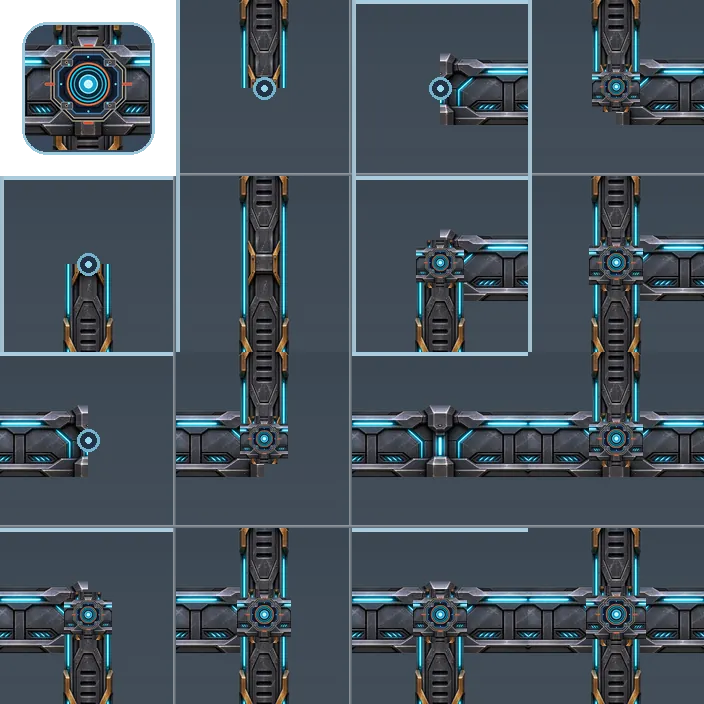
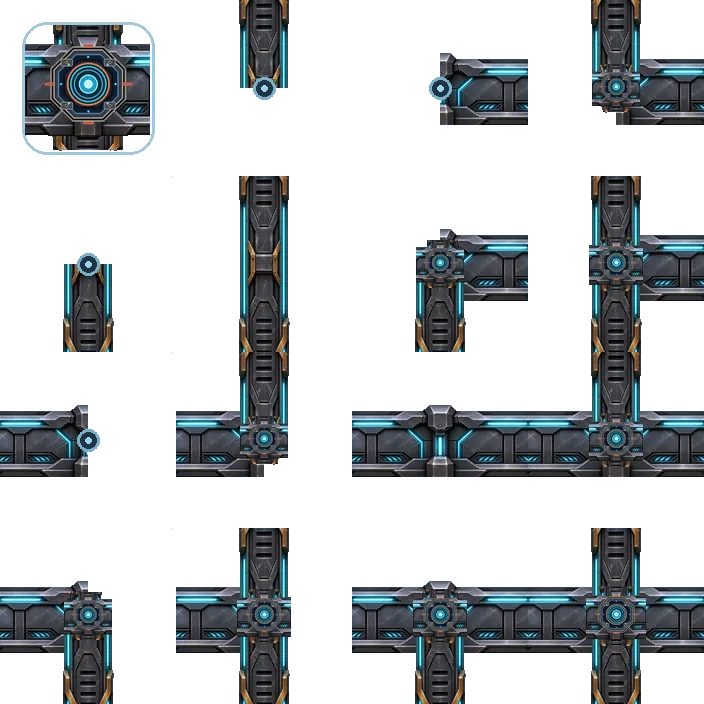
Remove wall backplates and add Fiend status display to Cosmic Odyssey
* Remove artificial dark tile backplates from connected sci-fi wall artwork

* Make desktop sector artwork share space with named Fiend health/status radar

* Wire live Jett, Chip and Kitty HP and defeat status to desktop tactical radar

* Display original environment art and live Fiend tactical status without cluttering maze

* Document transparent wall cleanup, original source provenance and tactical Fiend radar QA

diff --git a/public/cosmic-odyssey/index.html b/public/cosmic-odyssey/index.html
@@ -11,5 +11,13 @@
   <div class="cosmic-stage"><div id="board-frame" class="board-frame"><div id="board" class="board" role="application" aria-label="Cosmic Odyssey maze, swipe to steer Rosie"></div><div id="popups" class="popups"></div><div id="veil" class="veil">
     <div class="mission-card"><div class="mission-crest" id="mission-crest">✦ LEVEL 1 · NEBULA PASSAGE ✦</div><img class="mission-rosie" src="assets/rosie-cruise.webp" alt="Captain Rosie aboard her red white navy and gold rocket"/><h2 id="veil-title">COSMIC ODYSSEY</h2><p id="veil-msg">Collect biscuits to power Rosie's weapons. Jett and Chip patrol the treat lanes; Kitty Xenovese hunts you. Defeat all three Fiends and collect 18 biscuits to unlock the portal.</p><div class="fiend-cameos"><img src="assets/jett.webp" alt="Jett the jetpack raccoon"/><img src="assets/chip.webp" alt="Chip in his emerald UFO"/><img src="assets/kitty.webp" alt="Kitty in her pink ship"/></div><p class="mission-tip">Collect glowing turbo cores to bank up to two speed boosts. Boost with Shift/B or the touch button. Supply crates replenish ammo; repair stations restore hull. Red plasma mines are dangerous. From Stage 4 onward, paired wormholes let Rosie jump across the maze.</p><div class="mission-level-picker"><label for="stage-select">CHOOSE A STAGE TO PLAYTEST</label><select id="stage-select" aria-label="Choose a Cosmic Odyssey stage"></select></div><button id="start" class="launch-button">LAUNCH MISSION</button><div class="control-help">Swipe / hold D-pad to steer · Space: laser (1 treat) · Enter: rocket (2 treats) · Shift/B: boost</div></div>
   </div></div></div>
-  <div class="cosmic-bottom"><div class="status-line"><span id="message">Captain Rosie awaits your command.</span><span id="aim-indicator" class="aim-indicator" aria-live="off">AIM: RIGHT</span><span id="scene-description" class="scene-description">SCENERY: NEBULA PASSAGE</span><span id="level">LEVEL 1 / 10 · NEBULA PASSAGE</span></div><div class="command-bar"><div class="dpad" aria-label="Steering controls"><button data-dir="up" class="d-up" aria-label="Up">▲</button><button data-dir="left" class="d-left" aria-label="Left">◀</button><span class="d-center">✦</span><button data-dir="right" class="d-right" aria-label="Right">▶</button><button data-dir="down" class="d-down" aria-label="Down">▼</button></div><div class="weapons"><button id="laser" class="weapon" aria-label="Fire laser, costs one treat"><img src="assets/laser-button.webp" alt="LASER"/><small>1 <span>treat</span></small></button><button id="rocket" class="weapon" aria-label="Fire rocket, costs two treats"><img src="assets/rocket-button.webp" alt="ROCKET"/><small>2 <span>treats</span></small></button><button id="boost" class="weapon boost-weapon" aria-label="Activate turbo boost" disabled><span class="boost-icon"><svg viewBox="0 0 64 64" aria-hidden="true"><defs><linearGradient id="boostmetal" x1="0" y1="0" x2="1" y2="1"><stop stop-color="#fff7cb"/><stop offset=".45" stop-color="#ffc364"/><stop offset="1" stop-color="#f27637"/></linearGradient></defs><circle cx="32" cy="32" r="30" fill="#14244c" stroke="#f5c477" stroke-width="3"/><circle cx="32" cy="32" r="24" fill="#102b54" stroke="#3af1ff" stroke-width="2"/><path d="M35 9 16 35h13l-4 20 23-29H34Z" fill="url(#boostmetal)" stroke="#fff5cf" stroke-width="1.5"/></svg></span><small id="boost-count">0 / 2</small></button></div><div class="controls-note">ARROWS / WASD MOVE <span>·</span> SPACE LASER <span>·</span> ENTER ROCKET <span>·</span> SHIFT / B BOOST</div></div><div class="sector-art" aria-hidden="true"><span id="sector-setpiece"></span><span id="sector-art-label">NEBULA PASSAGE</span></div></div>
+  <div class="cosmic-bottom"><div class="status-line"><span id="message">Captain Rosie awaits your command.</span><span id="aim-indicator" class="aim-indicator" aria-live="off">AIM: RIGHT</span><span id="scene-description" class="scene-description">SCENERY: NEBULA PASSAGE</span><span id="level">LEVEL 1 / 10 · NEBULA PASSAGE</span></div><div class="command-bar"><div class="dpad" aria-label="Steering controls"><button data-dir="up" class="d-up" aria-label="Up">▲</button><button data-dir="left" class="d-left" aria-label="Left">◀</button><span class="d-center">✦</span><button data-dir="right" class="d-right" aria-label="Right">▶</button><button data-dir="down" class="d-down" aria-label="Down">▼</button></div><div class="weapons"><button id="laser" class="weapon" aria-label="Fire laser, costs one treat"><img src="assets/laser-button.webp" alt="LASER"/><small>1 <span>treat</span></small></button><button id="rocket" class="weapon" aria-label="Fire rocket, costs two treats"><img src="assets/rocket-button.webp" alt="ROCKET"/><small>2 <span>treats</span></small></button><button id="boost" class="weapon boost-weapon" aria-label="Activate turbo boost" disabled><span class="boost-icon"><svg viewBox="0 0 64 64" aria-hidden="true"><defs><linearGradient id="boostmetal" x1="0" y1="0" x2="1" y2="1"><stop stop-color="#fff7cb"/><stop offset=".45" stop-color="#ffc364"/><stop offset="1" stop-color="#f27637"/></linearGradient></defs><circle cx="32" cy="32" r="30" fill="#14244c" stroke="#f5c477" stroke-width="3"/><circle cx="32" cy="32" r="24" fill="#102b54" stroke="#3af1ff" stroke-width="2"/><path d="M35 9 16 35h13l-4 20 23-29H34Z" fill="url(#boostmetal)" stroke="#fff5cf" stroke-width="1.5"/></svg></span><small id="boost-count">0 / 2</small></button></div><div class="controls-note">ARROWS / WASD MOVE <span>·</span> SPACE LASER <span>·</span> ENTER ROCKET <span>·</span> SHIFT / B BOOST</div></div><div class="sector-art" role="group" aria-label="Sector artwork and Fiend combat status">
+  <div class="sector-art-preview" aria-hidden="true"><span id="sector-setpiece"></span><span id="sector-art-label">NEBULA PASSAGE</span></div>
+  <div class="fiend-tracker" aria-label="Fiend status">
+    <div class="fiend-tracker-heading">HOSTILE CONTACTS <span id="fiend-scan-count">3 ACTIVE</span></div>
+    <div class="fiend-track" id="fiend-track-jett"><img src="assets/jett.webp" alt=""><div class="fiend-track-detail"><strong>JETT SCROUNDREL</strong><div class="fiend-health"><span id="fiend-bar-jett"></span></div><small id="fiend-hp-jett">1 / 1 HP</small></div></div>
+    <div class="fiend-track" id="fiend-track-chip"><img src="assets/chip.webp" alt=""><div class="fiend-track-detail"><strong>CHIP SCURRIO</strong><div class="fiend-health"><span id="fiend-bar-chip"></span></div><small id="fiend-hp-chip">1 / 1 HP</small></div></div>
+    <div class="fiend-track" id="fiend-track-kitty"><img src="assets/kitty.webp" alt=""><div class="fiend-track-detail"><strong>KITTY XENOVESE</strong><div class="fiend-health"><span id="fiend-bar-kitty"></span></div><small id="fiend-hp-kitty">3 / 3 HP</small></div></div>
+  </div>
+</div></div>
 </div><script src="game.js"></script></body></html>

diff --git a/public/cosmic-odyssey/styles.css b/public/cosmic-odyssey/styles.css
@@ -1139,3 +1139,102 @@
   animation:cosmic-full-barrier-pulse 3.8s ease-in-out infinite alternate;
  }
 }
+
+/* November visual polish: actual transparent steel wall art, with no slate-panel
+   backdrop. Preserve coherent wall geometry and readable space corridors. */
+.board[data-wall-art="continuous"] .connected-wall-art{
+  image-rendering:auto;
+  filter:drop-shadow(0 1px 2px #020a16b8);
+}
+.board[data-wall-art="continuous"] .cell.continuous-wall{
+  background:none!important;background-color:transparent!important;
+}
+.board[data-wall-art="continuous"] .cell.continuous-wall.barrier-struck .connected-wall-art{
+  filter:brightness(1.65) drop-shadow(0 0 8px #ffc46f)!important;
+}
+
+/* Desktop sector display doubles as a compact enemy tracker, using original Fiend art. */
+.fiend-tracker{display:none}
+@media(min-width:1500px) and (min-height:740px) and (orientation:landscape){
+ .cosmic-bottom .sector-art{
+  display:grid!important;
+  grid-template-columns:minmax(0,.93fr) minmax(0,1.07fr);
+  align-items:stretch!important;justify-items:stretch;
+  gap:9px;
+  height:clamp(138px,18vh,167px)!important;
+  min-height:138px!important;max-height:167px!important;
+  padding:8px 9px 5px;
+  border-top:1px solid #b9a4785e;
+  background:linear-gradient(100deg,#1b254043,#11162b17);
+ }
+ .cosmic-bottom .sector-art-preview{
+  display:flex;flex-direction:column;align-items:center;justify-content:center;
+  min-width:0;min-height:0;
+  border-right:1px solid #6585ae3a;
+ }
+ .cosmic-bottom .sector-art-preview #sector-setpiece{
+  flex:1 1 auto;display:block;
+  height:100%;min-height:0;width:100%;
+  background-image:url('assets/sector-setpieces.webp');
+  background-size:400% 200%;
+  background-repeat:no-repeat;
+  filter:drop-shadow(0 0 8px #6382be5a);
+ }
+ .cosmic-bottom .sector-art-preview #sector-art-label{
+  display:block;font:700 8px/1.2 Arial,sans-serif;
+  color:#c9c9ce;letter-spacing:.9px;
+  max-width:100%;overflow:hidden;text-overflow:ellipsis;white-space:nowrap;
+  margin-bottom:2px;
+ }
+ .cosmic-bottom .fiend-tracker{
+  display:grid;grid-template-rows:15px repeat(3,minmax(0,1fr));
+  gap:3px;min-height:0;
+  font:10px Arial,sans-serif;
+  color:#e5dbe0;
+ }
+ .fiend-tracker-heading{
+  display:flex;align-items:center;justify-content:space-between;
+  font-size:8px;letter-spacing:1px;font-weight:700;color:#f2cf93;
+  white-space:nowrap;
+ }
+ .fiend-tracker-heading span{color:#9fc7ee;font-size:8px;letter-spacing:.3px}
+ .fiend-track{
+  display:flex;align-items:center;gap:5px;min-height:0;
+  border:1px solid #5e82a858;border-radius:6px;
+  padding:2px 4px;
+  background:linear-gradient(90deg,#21315164,#100f2855);
+ }
+ .fiend-track img{
+  width:39px;height:39px;max-height:100%;
+  flex:0 0 39px;object-fit:contain;
+  filter:drop-shadow(0 1px 3px #000b);
+ }
+ .fiend-track-detail{
+  flex:1;display:flex;flex-direction:column;gap:3px;
+  justify-content:center;min-width:0;
+ }
+ .fiend-track-detail strong{font-size:8.5px;letter-spacing:.2px;color:#fff1d7;white-space:nowrap}
+ .fiend-track-detail small{font-size:8px;color:#c8d4e7}
+ .fiend-health{height:4px;width:100%;border-radius:5px;background:#36415b;overflow:hidden}
+ .fiend-health span{
+  display:block;width:100%;height:100%;border-radius:inherit;
+  background:linear-gradient(90deg,#e69f56,#fac778);
+  transition:width .2s ease-out;
+ }
+ .fiend-track.damaged .fiend-health span{background:linear-gradient(90deg,#bd6446,#edaa58)}
+ .fiend-track.eliminated{opacity:.52;filter:grayscale(.7);border-color:#4e5862}
+ .fiend-track.eliminated img{filter:grayscale(1)}
+ .fiend-track.eliminated .fiend-track-detail small{color:#d9a38b;font-weight:bold}
+}
+@media(min-width:1500px) and (min-height:740px) and (max-height:865px) and (orientation:landscape){
+ .cosmic-bottom .sector-art{
+   min-height:132px!important;height:142px!important;max-height:142px!important;
+   padding:5px 6px;
+ }
+ .fiend-track img{width:31px;height:31px;flex-basis:31px}
+ .fiend-track-detail{gap:2px}
+ .fiend-track-detail strong{font-size:8px}
+}
+@media(prefers-reduced-motion:reduce){
+ .fiend-health span{transition:none}
+}

diff --git a/public/cosmic-odyssey/game.js b/public/cosmic-odyssey/game.js
@@ -220,7 +220,21 @@
  const boostButton=$('boost'),boostCount=$('boost-count'),boostActive=phase==='playing'&&performance.now()<boostUntil;
  if(boostButton){boostButton.disabled=phase!=='playing'||boostCharges===0||boostActive;boostButton.classList.toggle('active',boostActive);boostButton.setAttribute('aria-label',boostActive?'Boost active':`Activate boost - ${boostCharges} charges available`);}
  if(boostCount)boostCount.textContent=boostActive?'ACTIVE':`${boostCharges} / ${BOOST_MAX}`;
- const stageBadge=$('stage-badge');if(stageBadge)stageBadge.textContent=`${level} / ${LEVELS.length}`; $('score').textContent=String(score).padStart(5,'0');$('ammo').innerHTML=`${ammo} <i>/ 8</i>`;$('lives').innerHTML=lives?Array.from({length:lives},()=>`<img class="life-icon" src="${asset('life')}" alt="♥">`).join(''):'—';$('gathered').textContent=`${Math.min(got,target)} / ${target}`;$('fiends-left').textContent=3-deadCount;$('laser').disabled=ammo<1||phase!=='playing';$('rocket').disabled=ammo<2||phase!=='playing';}
+ const stageBadge=$('stage-badge');if(stageBadge)stageBadge.textContent=`${level} / ${LEVELS.length}`; $('score').textContent=String(score).padStart(5,'0');$('ammo').innerHTML=`${ammo} <i>/ 8</i>`;$('lives').innerHTML=lives?Array.from({length:lives},()=>`<img class="life-icon" src="${asset('life')}" alt="♥">`).join(''):'—';$('gathered').textContent=`${Math.min(got,target)} / ${target}`;$('fiends-left').textContent=3-deadCount;$('laser').disabled=ammo<1||phase!=='playing';$('rocket').disabled=ammo<2||phase!=='playing';updateFiendRadar();}
+ function updateFiendRadar(){
+  const count=$('fiend-scan-count');if(count)count.textContent=(3-deadCount)+' ACTIVE';
+  for(const id of ['jett','chip','kitty']){
+   const e=entities.find(x=>x.id===id);
+   const root=$('fiend-track-'+id),label=$('fiend-hp-'+id),bar=$('fiend-bar-'+id);
+   if(!root||!label||!bar||!e)continue;
+   const down=!!e.killed||e.health<=0;
+   root.classList.toggle('eliminated',down);
+   root.classList.toggle('damaged',!down&&e.health<e.hp);
+   const hp=Math.max(0,e.health);
+   label.textContent=down?'DEFEATED':hp+' / '+e.hp+' HP';
+   bar.style.width=Math.round(hp/e.hp*100)+'%';
+  }
+ }
  function addSprite(name,x,y,css){
   if(name==='kitty')name='kitty-hq';
   const el=document.createElement('div');el.className=`sprite ${css}`;el.setAttribute('aria-hidden','true');

diff --git a/public/cosmic-odyssey/ASSET_AUDIT.md b/public/cosmic-odyssey/ASSET_AUDIT.md
@@ -192,3 +192,12 @@ The older atlas `wall-atlas-b2.webp` remains in the repo only for historical com
 **Visual control:** The board backdrop is dimmed for readability, while energy spans use limited glow and pulse only on desktop. The existing `?classicWalls=1` fallback preserves original static partition art.
 
 **Validation:** JS syntax passed. Simulated portrait and desktop layouts across all 10 stages confirmed wall coverage, unchanged wall/floor counts, nonempty long spans, correct stage-specific barrier types, correct setpiece selection, and unmodified classic fallback. A representative artwork-only maze mockup was inspected, but an actual-device screenshot review is still needed.
+
+
+## November 13 follow-up - transparent walls and live Fiend radar
+
+Corrected original `connected-wall-atlas.webp` by removing an extraneous semi-opaque blue-slate panel (~alpha 210) from the unoccupied space around each metal wall. Structural rails, endcaps, and connectivity mask geometry remain from the approved artwork. The resulting 704×704 transparent WebP is approximately 73 KB and matches Git blob `b7af27d3f50035eb492e466b2395e85cb5a5eb9a`. Original source remains in Dropbox at `/Rosie-App-Transfer/Cosmic-Odyssey-Connected-Wall-Rebuild-Transfer-20261113.json` and `/Rosie-App-Transfer/Cosmic-Odyssey-Connected-Wall-Atlas-Final-20261113.base64.txt`; the corrected optimized image was also transferred separately as `Cosmic-Odyssey-Clean-Connected-Wall-Atlas-20261113.base64.txt`. Actual geometry and game grid unchanged.
+
+The desktop sector-art well now shares space with a three-Fiend tactical tracker using the existing approved Jett/Chip/Kitty spacecraft images. Shows full names, health bars, current HP, and distinct defeated state. Tracker is intentionally hidden on narrow viewports to keep iPhone gameplay clear; the existing HUD Fiend total remains visible everywhere.
+
+Mock DOM test at 393×852 and 1760×850 passed: all existing wall cells still covered, health values update correctly when Kitty takes one hit, destroyed Fiends show 0 HP and DEFEATED, and all Fiend statuses reset at the next stage. A locally rendered maze comparison confirms that slate rectangles no longer obscure the background. Physical-device and full live-browser visual QA remain outstanding.
